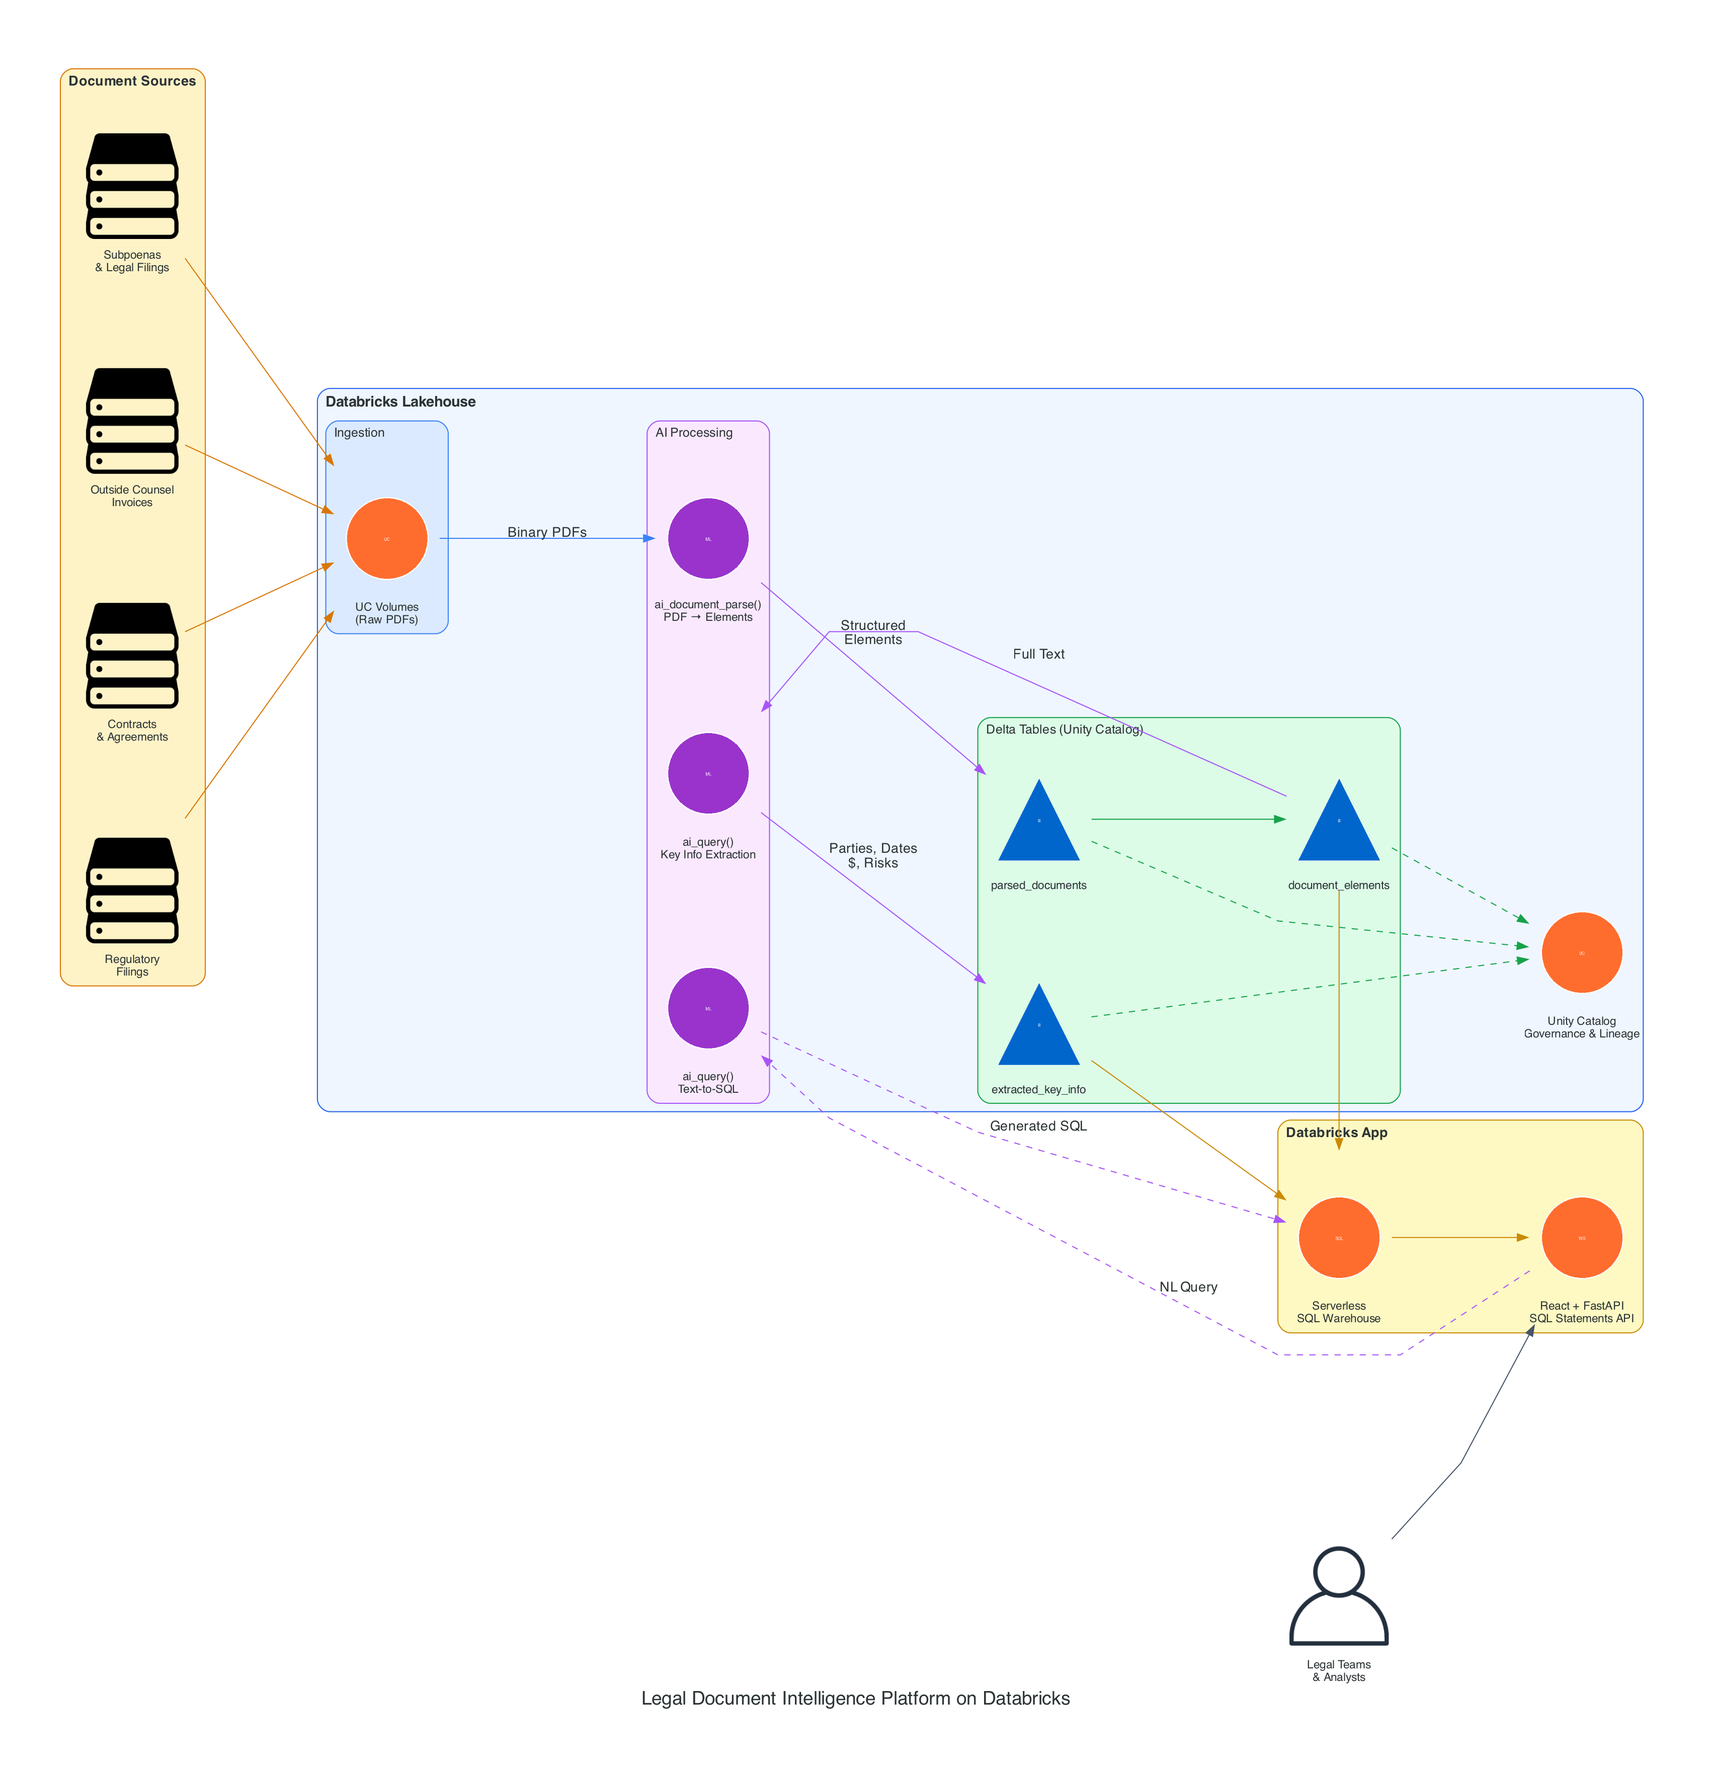
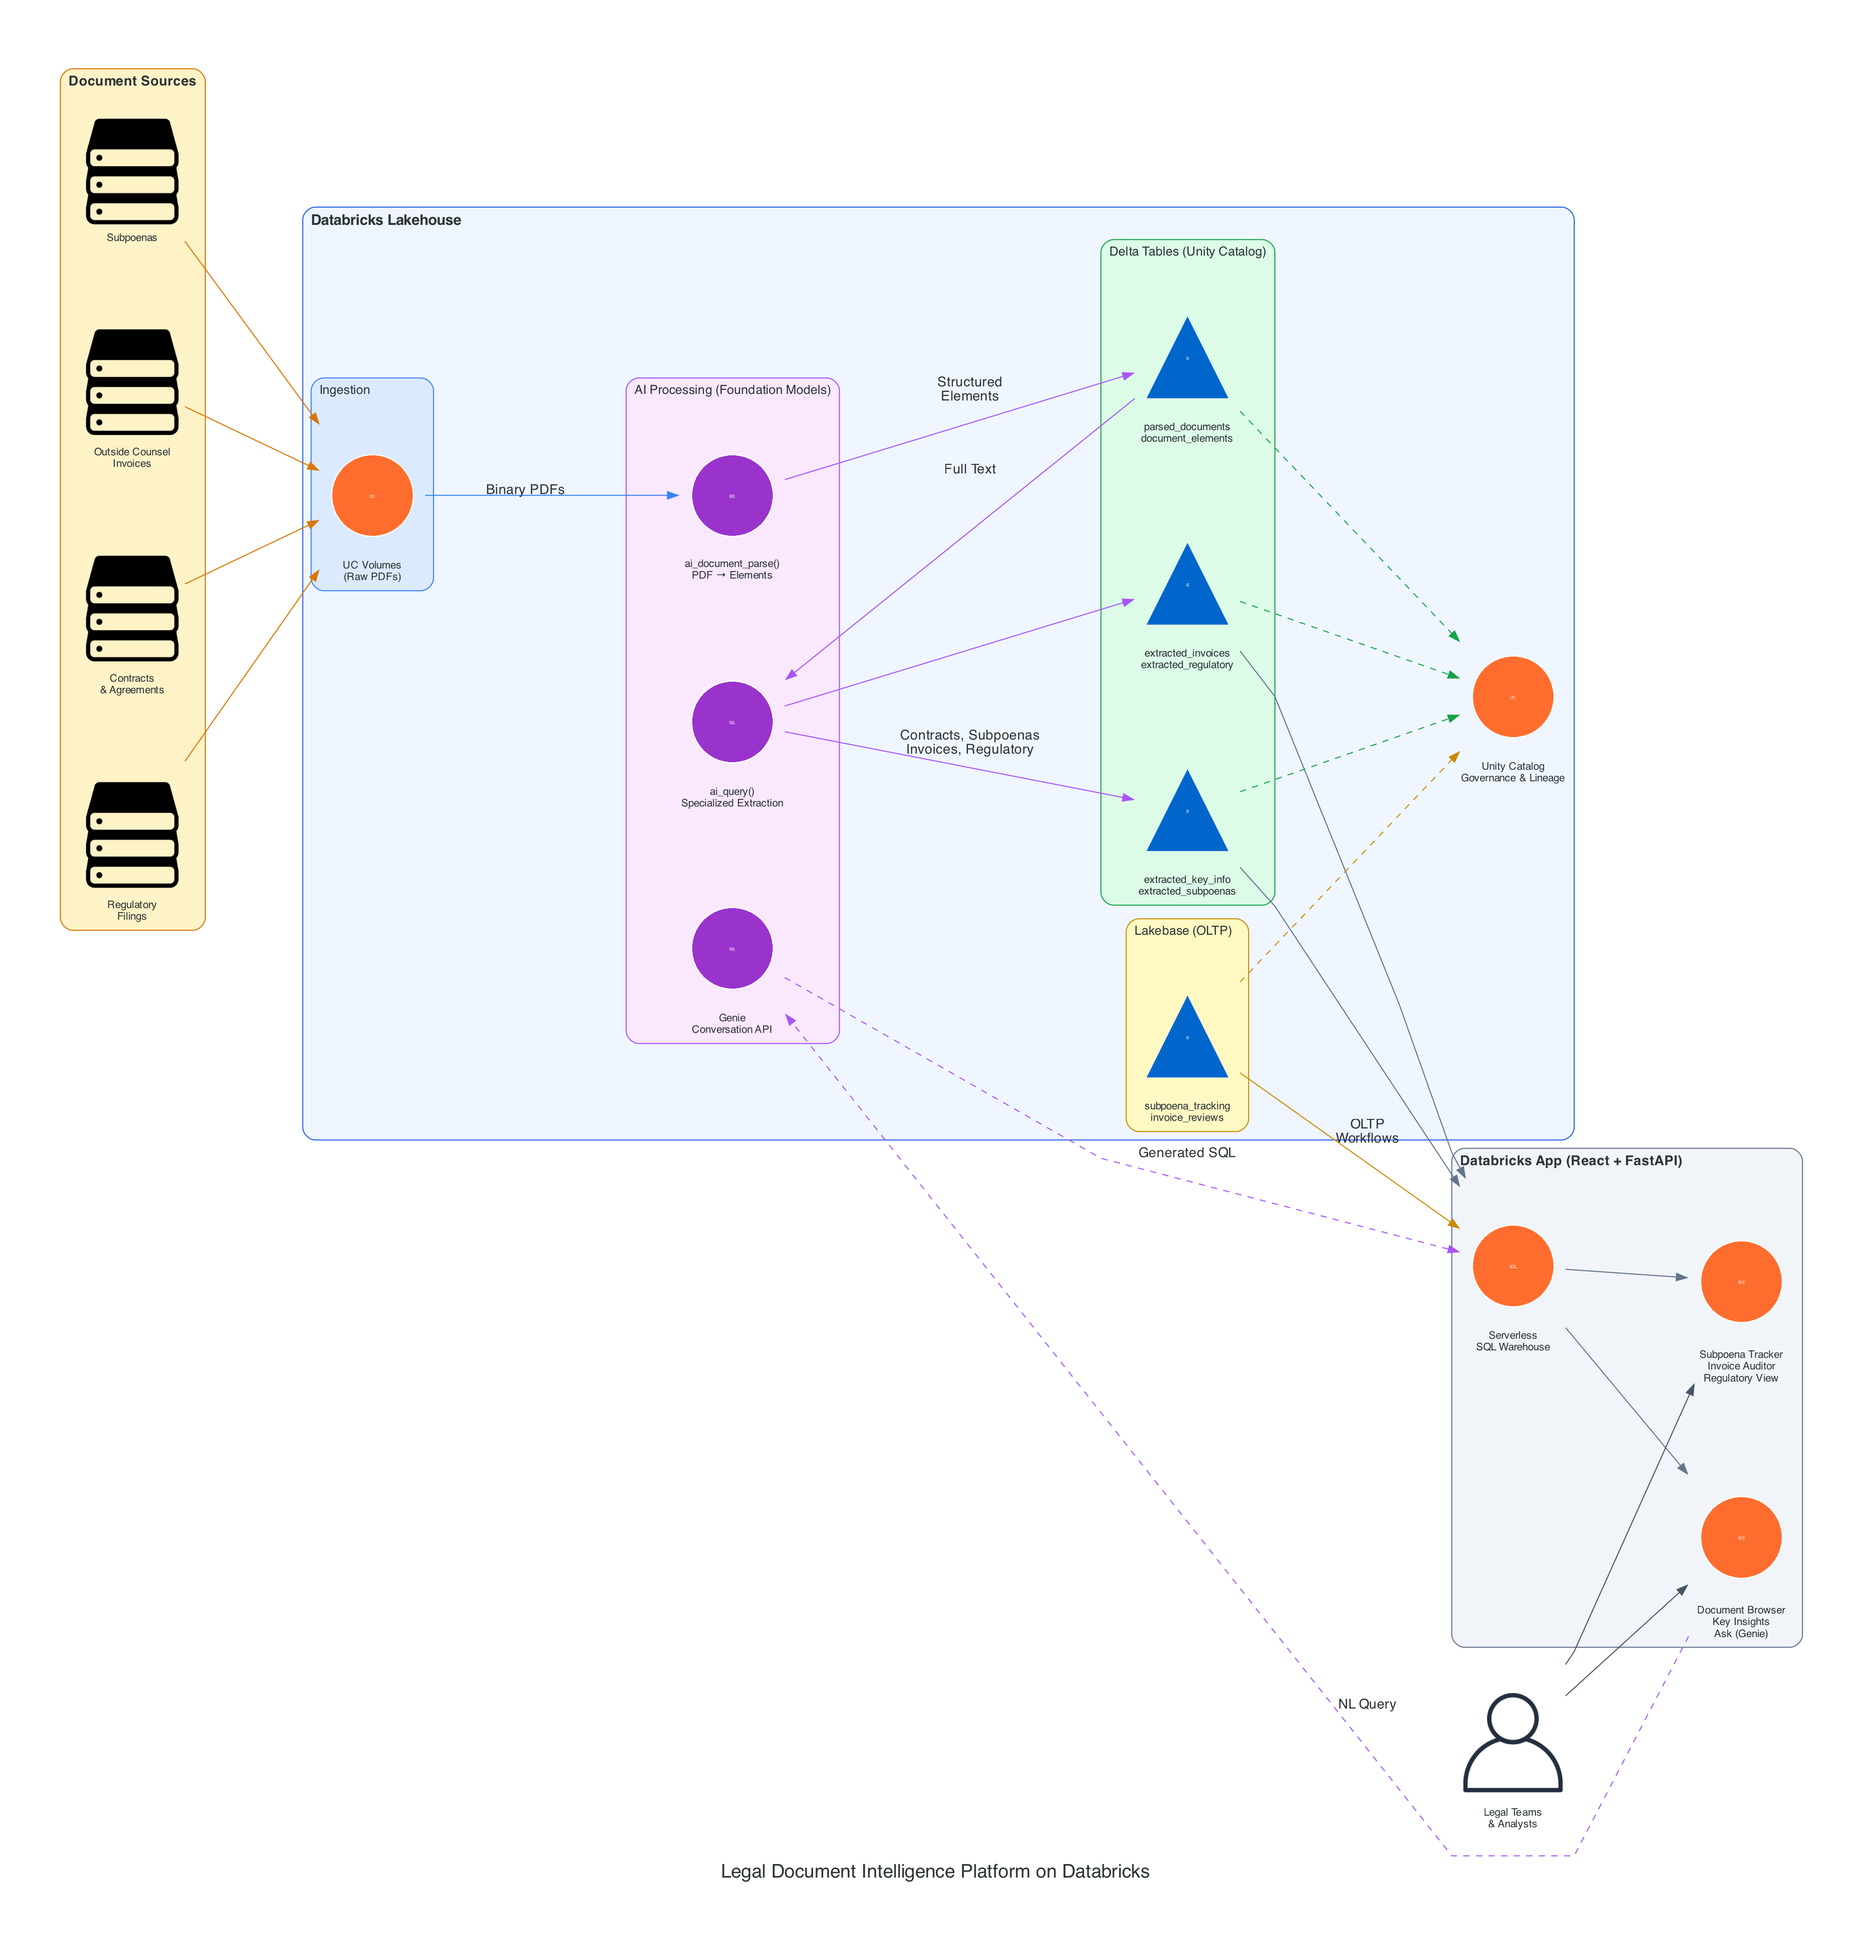
Update architecture diagram with Lakebase, Genie, and specialized pipelines

diff --git a/docs/architecture_diagram.py b/docs/architecture_diagram.py
@@ -2,10 +2,7 @@
 from diagrams import Diagram, Cluster, Edge
 from diagrams.custom import Custom
 from diagrams.onprem.client import User
-from diagrams.programming.framework import React
-from diagrams.programming.language import Python
 from diagrams.generic.storage import Storage
-from diagrams.generic.database import SQL
 import os
 
 ICONS = "/Users/maksim.nikiforov/.claude/plugins/cache/fe-vibe/fe-workflows/1.2.9/skills/fe-architecture-diagram/resources/icons"
@@ -18,8 +15,8 @@ with Diagram(
     direction="LR",
     graph_attr={
         "splines": "polyline",
-        "nodesep": "0.8",
-        "ranksep": "1.8",
+        "nodesep": "0.7",
+        "ranksep": "1.6",
         "pad": "0.8",
         "fontsize": "18",
         "bgcolor": "white",
@@ -28,11 +25,11 @@ with Diagram(
         "labeljust": "c",
     },
     node_attr={
-        "fontsize": "11",
+        "fontsize": "10",
         "fontname": "Helvetica",
     },
     edge_attr={
-        "fontsize": "9",
+        "fontsize": "8",
         "fontname": "Helvetica",
         "color": "#475569",
     },
@@ -40,7 +37,7 @@ with Diagram(
 
     # === DATA SOURCES ===
     with Cluster("Document Sources", graph_attr={"bgcolor": "#fef3c7", "style": "rounded", "pencolor": "#d97706", "fontsize": "13", "fontname": "Helvetica Bold"}):
-        subpoenas = Storage("Subpoenas\n& Legal Filings")
+        subpoenas = Storage("Subpoenas")
         invoices = Storage("Outside Counsel\nInvoices")
         contracts = Storage("Contracts\n& Agreements")
         regulatory = Storage("Regulatory\nFilings")
@@ -53,23 +50,28 @@ with Diagram(
             volumes = Custom("UC Volumes\n(Raw PDFs)", f"{ICONS}/databricks/unity_catalog.png")
 
         # AI Processing
-        with Cluster("AI Processing", graph_attr={"bgcolor": "#fae8ff", "style": "rounded", "pencolor": "#a855f7", "fontsize": "12"}):
+        with Cluster("AI Processing (Foundation Models)", graph_attr={"bgcolor": "#fae8ff", "style": "rounded", "pencolor": "#a855f7", "fontsize": "12"}):
             parse = Custom("ai_document_parse()\nPDF → Elements", f"{ICONS}/databricks/model_serving.png")
-            extract = Custom("ai_query()\nKey Info Extraction", f"{ICONS}/databricks/model_serving.png")
-            txt2sql = Custom("ai_query()\nText-to-SQL", f"{ICONS}/databricks/model_serving.png")
+            extract = Custom("ai_query()\nSpecialized Extraction", f"{ICONS}/databricks/model_serving.png")
+            genie = Custom("Genie\nConversation API", f"{ICONS}/databricks/model_serving.png")
 
-        # Storage
+        # Delta Storage
         with Cluster("Delta Tables (Unity Catalog)", graph_attr={"bgcolor": "#dcfce7", "style": "rounded", "pencolor": "#16a34a", "fontsize": "12"}):
-            parsed_tbl = Custom("parsed_documents", f"{ICONS}/databricks/delta_lake.png")
-            elements_tbl = Custom("document_elements", f"{ICONS}/databricks/delta_lake.png")
-            keyinfo_tbl = Custom("extracted_key_info", f"{ICONS}/databricks/delta_lake.png")
+            parsed_tbl = Custom("parsed_documents\ndocument_elements", f"{ICONS}/databricks/delta_lake.png")
+            keyinfo_tbl = Custom("extracted_key_info\nextracted_subpoenas", f"{ICONS}/databricks/delta_lake.png")
+            inv_reg_tbl = Custom("extracted_invoices\nextracted_regulatory", f"{ICONS}/databricks/delta_lake.png")
+
+        # Lakebase
+        with Cluster("Lakebase (OLTP)", graph_attr={"bgcolor": "#fef9c3", "style": "rounded", "pencolor": "#ca8a04", "fontsize": "12"}):
+            lakebase = Custom("subpoena_tracking\ninvoice_reviews", f"{ICONS}/databricks/delta_lake.png")
 
         # Governance
         uc = Custom("Unity Catalog\nGovernance & Lineage", f"{ICONS}/databricks/unity_catalog.png")
 
     # === APPLICATION ===
-    with Cluster("Databricks App", graph_attr={"bgcolor": "#fef9c3", "style": "rounded", "pencolor": "#ca8a04", "fontsize": "13", "fontname": "Helvetica Bold"}):
-        app = Custom("React + FastAPI\nSQL Statements API", f"{ICONS}/databricks/workspace.png")
+    with Cluster("Databricks App (React + FastAPI)", graph_attr={"bgcolor": "#f1f5f9", "style": "rounded", "pencolor": "#64748b", "fontsize": "13", "fontname": "Helvetica Bold"}):
+        app = Custom("Document Browser\nKey Insights\nAsk (Genie)", f"{ICONS}/databricks/workspace.png")
+        app_ops = Custom("Subpoena Tracker\nInvoice Auditor\nRegulatory View", f"{ICONS}/databricks/workspace.png")
         warehouse = Custom("Serverless\nSQL Warehouse", f"{ICONS}/databricks/sql_warehouse.png")
 
     # === USERS ===
@@ -87,25 +89,33 @@ with Diagram(
 
     # Parse -> Tables
     parse >> Edge(label="Structured\nElements", color="#a855f7") >> parsed_tbl
-    parsed_tbl >> Edge(color="#16a34a") >> elements_tbl
 
     # Extract
-    elements_tbl >> Edge(label="Full Text", color="#a855f7") >> extract
-    extract >> Edge(label="Parties, Dates\n$, Risks", color="#a855f7") >> keyinfo_tbl
+    parsed_tbl >> Edge(label="Full Text", color="#a855f7") >> extract
+    extract >> Edge(label="Contracts, Subpoenas\nInvoices, Regulatory", color="#a855f7") >> keyinfo_tbl
+    extract >> Edge(color="#a855f7") >> inv_reg_tbl
 
     # Governance
     parsed_tbl >> Edge(style="dashed", color="#16a34a") >> uc
-    elements_tbl >> Edge(style="dashed", color="#16a34a") >> uc
     keyinfo_tbl >> Edge(style="dashed", color="#16a34a") >> uc
+    inv_reg_tbl >> Edge(style="dashed", color="#16a34a") >> uc
+    lakebase >> Edge(style="dashed", color="#ca8a04") >> uc
 
-    # App queries
-    keyinfo_tbl >> Edge(color="#ca8a04") >> warehouse
-    elements_tbl >> Edge(color="#ca8a04") >> warehouse
-    warehouse >> Edge(color="#ca8a04") >> app
+    # App queries - Delta tables to warehouse
+    keyinfo_tbl >> Edge(color="#64748b") >> warehouse
+    inv_reg_tbl >> Edge(color="#64748b") >> warehouse
 
-    # Text-to-SQL
-    app >> Edge(label="NL Query", color="#a855f7", style="dashed") >> txt2sql
-    txt2sql >> Edge(label="Generated SQL", color="#a855f7", style="dashed") >> warehouse
+    # Lakebase to warehouse
+    lakebase >> Edge(label="OLTP\nWorkflows", color="#ca8a04") >> warehouse
+
+    # Warehouse to app
+    warehouse >> Edge(color="#64748b") >> app
+    warehouse >> Edge(color="#64748b") >> app_ops
+
+    # Genie
+    app >> Edge(label="NL Query", color="#a855f7", style="dashed") >> genie
+    genie >> Edge(label="Generated SQL", color="#a855f7", style="dashed") >> warehouse
 
     # User
     user >> Edge(color="#475569") >> app
+    user >> Edge(color="#475569") >> app_ops
